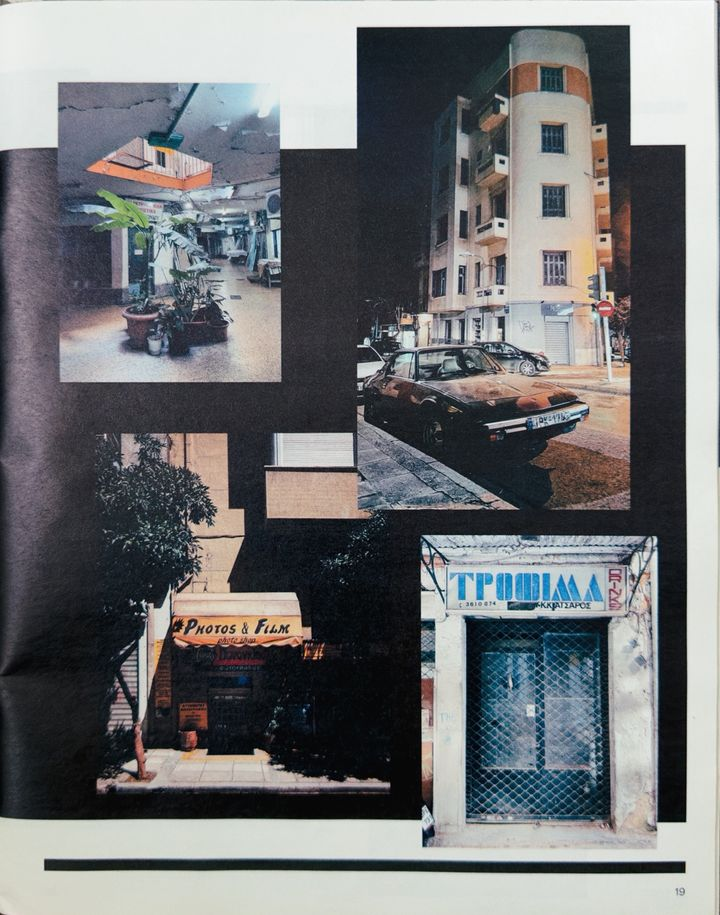
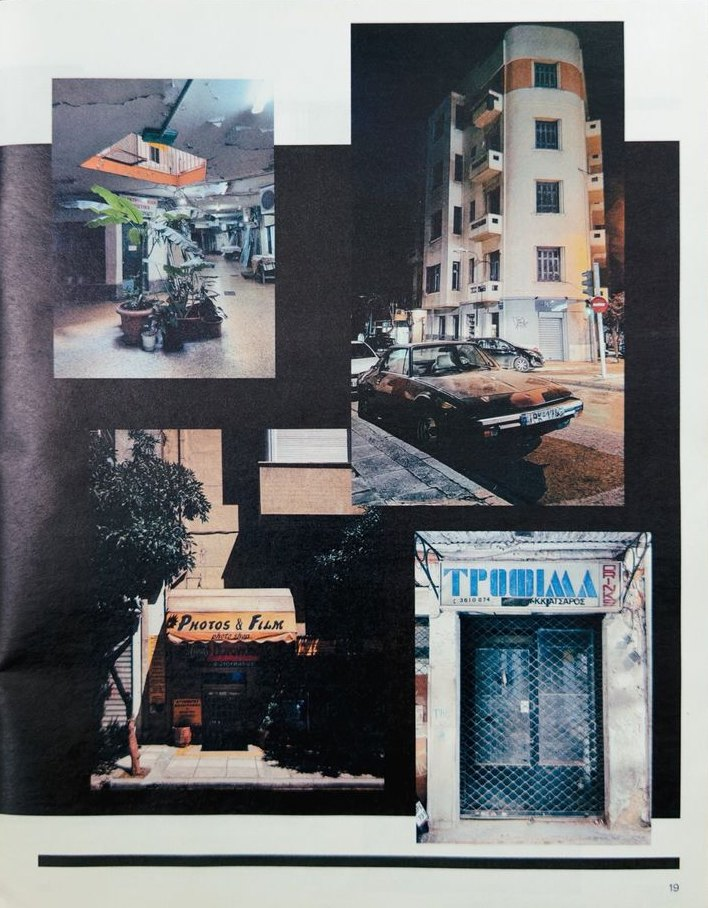
Press: K clippings trimmed (no floor); sharp new fold-out image with shop list beside it
Claude-Session: https://claude.ai/code/session_01VvB7F18VBnVZv6asFsbdLc

diff --git a/index.html b/index.html
@@ -614,12 +614,13 @@ footer .logo .logo-mark{height:52px}
 .clips:has(.zoomable){pointer-events:auto}
 .fold-btn{margin-top:16px}
 .foldview .fold-body{flex:1;min-height:0;overflow:auto;display:flex;gap:28px;align-items:flex-start;justify-content:center;padding-block:14px}
-.foldview .fold-body img{max-height:100%;width:auto;max-width:min(100%,680px);height:auto;display:block;background:#fff}
+.foldview .fold-body img{max-height:100%;width:auto;max-width:min(calc(100% - 360px),1100px);height:auto;display:block;align-self:center;min-width:0}
+.foldview .fold-list{flex:none;width:300px}
 .fold-list{margin:0;padding:0 0 0 1.4em;font-family:var(--mono);font-size:12.5px;line-height:1.5;max-width:320px;color:#d8d5cc}
 .fold-list li{margin-bottom:8px}
 .fold-list b{display:block;font-family:var(--display);font-weight:500;text-transform:uppercase;letter-spacing:.06em;font-size:15px;color:#f3ead2}
 .foldview{background:#121619}
-@media (max-width:820px){.foldview .fold-body{flex-direction:column;align-items:center;justify-content:flex-start}.foldview .fold-body img{max-height:none;max-width:100%}}
+@media (max-width:820px){.foldview .fold-body{flex-direction:column;align-items:center;justify-content:flex-start}.foldview .fold-body img{max-height:none;max-width:100%}.foldview .fold-list{width:auto}}
 
 /* Desired Landscapes: cover in front and larger */
 .feature.flip .clips{height:clamp(440px,46vw,580px)}
@@ -872,10 +873,10 @@ blockquote p:first-child,.about-quote p:first-child,.feature-text blockquote p:f
   <div class="section-head"><h2>In the press</h2><p>Print and online</p></div>
   <div class="feature">
     <div class="clips" aria-hidden="true">
-      <img class="clip c4" src="img/press/k-spread.jpg" alt="" width="1200" height="789" loading="lazy">
-      <img class="clip c1" src="img/press/k-cover.jpg" alt="" width="720" height="908" loading="lazy">
-      <img class="clip c2" src="img/press/k-page18.jpg" alt="" width="720" height="931" loading="lazy">
-      <img class="clip c3" src="img/press/k-page19.jpg" alt="" width="720" height="905" loading="lazy">
+      <img class="clip c4" src="img/press/k-spread.jpg" alt="" width="1174" height="762" loading="lazy">
+      <img class="clip c1" src="img/press/k-cover.jpg" alt="" width="692" height="878" loading="lazy">
+      <img class="clip c2" src="img/press/k-page18.jpg" alt="" width="696" height="918" loading="lazy">
+      <img class="clip c3" src="img/press/k-page19.jpg" alt="" width="708" height="908" loading="lazy">
     </div>
     <div class="feature-text">
       <p class="f-outlet">K · Η Καθημερινή</p>
@@ -999,7 +1000,7 @@ blockquote p:first-child,.about-quote p:first-child,.feature-text blockquote p:f
 <div class="viewer foldview" id="foldout" hidden role="dialog" aria-modal="true" aria-label="Desired Landscapes fold-out">
   <div class="bar"><span>Desired Landscapes 07 · fold-out</span><button type="button" class="fold-close">Close</button></div>
   <div class="fold-body">
-    <img src="img/press/dl-foldout.jpg" width="1200" height="1600" alt="The Desired Landscapes fold-out: a grid of twelve shopfront photographs by Steven A.J. Beijer, from Stock Market and N. Basilakos to City of Athens, Κομμώσεις Νίτσα and Τρόφιμα" loading="lazy">
+    <img src="img/press/dl-foldout.jpg" width="1860" height="1220" alt="Desired Landscapes issue 07 open at the Fading Athens essay, with the fold-out grid of twelve shopfront photographs by Steven A.J. Beijer, from N. Basilakos and Antigoni Travel to City of Athens and Τρόφιμα" loading="lazy">
     <ol class="fold-list">
       <li><b>Stock Market</b> 2020 · Ioannou Drosopoulou 89, Athens</li>
       <li><b>N. Basilakos</b> 2022 · Kleisthenous 7, Athens</li>
